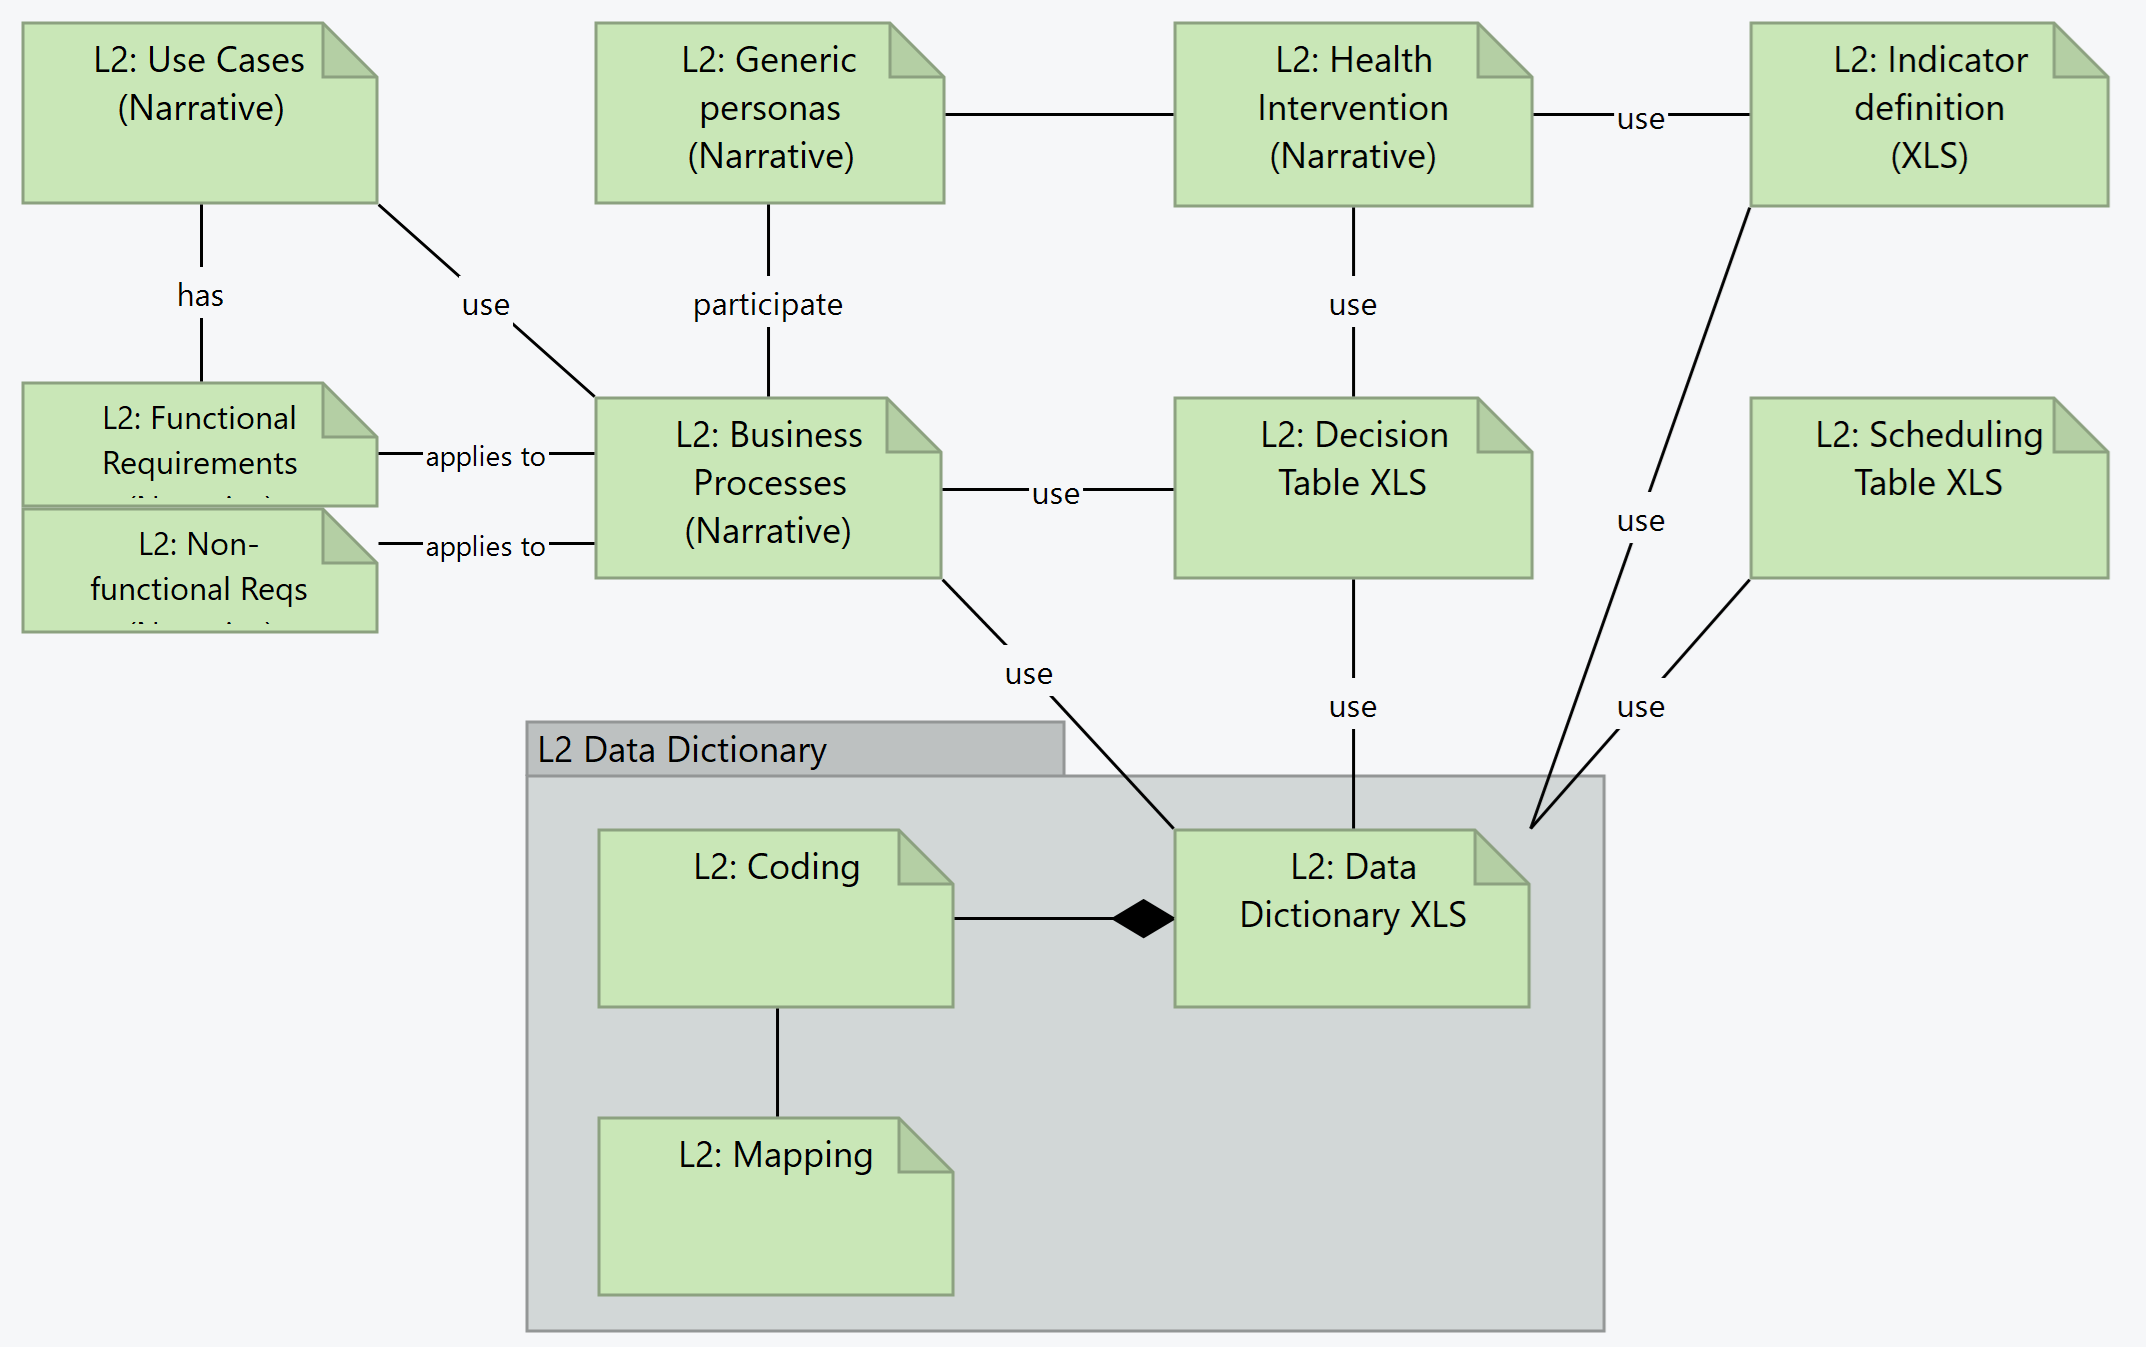
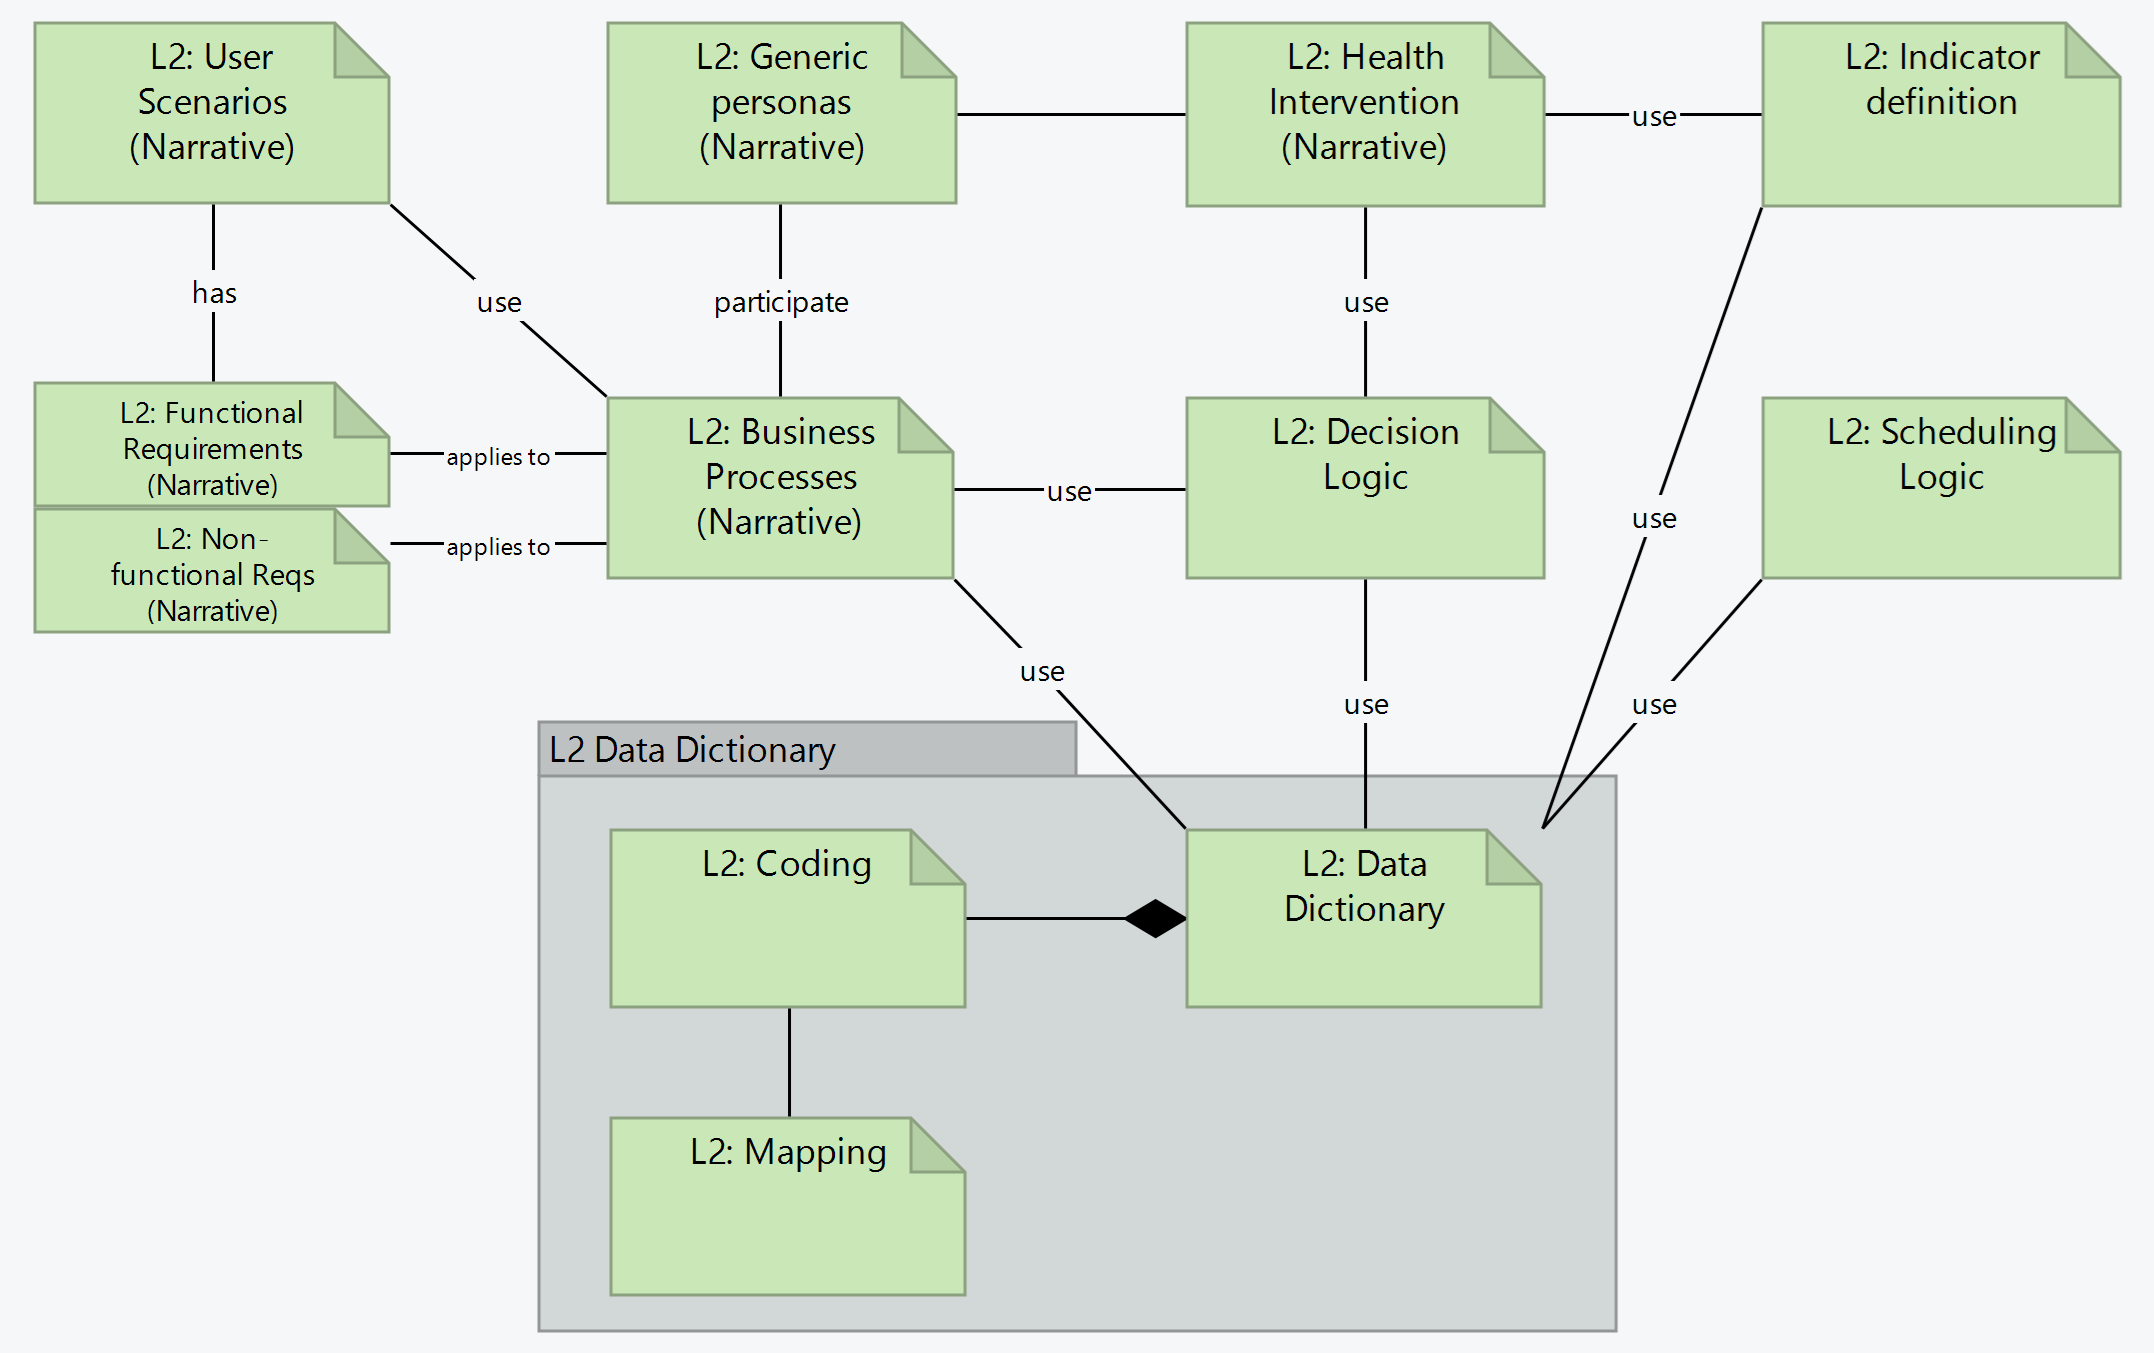
remove references to glossary, update diagram and archimate

diff --git a/input/pagecontent/l3_personas.md b/input/pagecontent/l3_personas.md
@@ -5,7 +5,7 @@ Each Persona is defined by the following data:
   {% include model_persona.svg %}
 </figure>
 
-The L3 author must ensure there is an ActorDefinition for each Persona mentioned in the L2. If the Persona doesn't exist in the Personas Glossary yet,
+The L3 author must ensure there is an ActorDefinition for each Persona mentioned in the L2. If the Persona doesn't exist in the common Personas list yet,
 this process can propose the creation of another different persona. This
 creation of a new persona is a provisional measure; there SHALL be a
 governance process for Personas. In that governance, there SHALL be a requirement that all personas in the final publication of a specification SHALL be approved.
@@ -13,8 +13,7 @@ governance process for Personas. In that governance, there SHALL be a requiremen
 ### **Inputs:** 
 
 * L2 Generic personas (Narrative)
-* Personas Glossary (in ValueSet SGPersonas)
-* Personas repository (in Common artifacts / central repository?)
+* Common Personas list (in Common artifacts / central repository?)
 
 ### **Outputs:**
 
@@ -57,7 +56,7 @@ Personas will be associated with actions(processes). The tracking of that associ
 ### **Criteria / Definition of Done**
 * All Personas SHALL use the SGPersona ActorDefinition profile
 * Each Persona source follow the guidelines for file content and names
-* All the personas SHOULD be from the Personas glossary; any exceptions will have to be resolved before final publication
+* All the personas SHOULD be registered in (or proposed to) the Personas list; any exceptions will have to be resolved before final publication
 
 
 ### **Change tracking**

diff --git a/input/pagecontent/l3_logicalmodels.md b/input/pagecontent/l3_logicalmodels.md
@@ -65,13 +65,13 @@ Logical model should conform to the [SGLogical](http://build.fhir.org/ig/WorldHe
 Creating the logical model from a DAK consists in creating the data structure, linking the elements to the common concept identifiers or, if that is not possible, to the internal unique concept identifiers (e.g. `DE1`, etc.). Additionally, assigning valuesets (creating them when needed), and capturing any constraints that are present in the L2.
 
 To start creating the logical model, an intake validation is useful, although it can be done simultaneously done with the editing of the logical model:
-1.  Verify that each data element needed exists in the common Glossary
+1.  Verify that each data element needed exists in the common definitions - 
     1.  If not, create and provisionally use a draft concept, and
-        request that concept to be added to the common glossary.
+        request that concept to be added to the common definitions.
     2.  If it exists but the existing definition is too strict, request
         a change and decide whether to provisionally use the concept,
         or provisionally create a new one and request it to be added
-        to the common glossary.
+        to the common definitions.
 2. The data labels should be unique within the same data model.
 
 For each line in the tab, there shall be one data element in the logical model (represented here by `differential.element[*]`):

diff --git a/input/pagecontent/gov_overview.md b/input/pagecontent/gov_overview.md
@@ -1,8 +1,8 @@
-SMART Guidelines artifacts are meant to be interoperable and shared. This means that they can be maintained and possibly reused and referenced across Guidelines.
+SMART Guidelines artifacts are meant to be interoperable and shared. This means that the artifacts can be maintained and possibly reused and referenced across Guidelines.
 
 The authoring process currently identifies some artifacts that are subject to "common" governance i.e. being maintained not within one single guideline, but as possibly reusable artifacts:
 
-* Glossary - Data Elements may be defined in a common base - for example "Patient given name" and "Pregnancy status" are definitions that should be common across SMART Guidelines
+* Concept definitions may be defined in a common base - for example "Patient given name" and "Pregnancy status" are definitions that should be common across SMART Guidelines
 * Business Processes, Personas - several of such artifacts can be used when building up an architecture from the modular components, aiming at reuse or consistency
 * ValueSets and CodeSystems - Terminology assets are inherently reusable across specifications.
 * CQL Common Libraries - code libraries can be maintained for reuse 

diff --git a/input/pagecontent/validating_ig.md b/input/pagecontent/validating_ig.md
@@ -3,7 +3,7 @@ Validating Smart Guidelines L3 is a responsibility of the author. This comprehen
 1. Ensure that the content of the L2 is correctly represented by L3 artifacts
 2. Verify that the rules for each created artifact are followed e.g. that there are no issues with the artifacts
 3. Confirm the functionality of L3 artifacts - for example that the StructureMaps extraction gives exactly the expected output, using reference tooling
-4. Address any other dependencies and governance issues e.g. updates to common glossary, etc.
+4. Address any other dependencies and governance issues e.g. updates to common definitions, etc.
 
 
 These are described below:

diff --git a/input/pagecontent/checklist.md b/input/pagecontent/checklist.md
@@ -59,7 +59,7 @@
     <tr>
       <td class='checklist-section'><a href="concepts.html">Business Requirements.Concepts</a></td>
       <td class='checklist-required'>Yes</td>
-      <td class='checklist-description'>A glossary of terms and key concepts introduced in the L2 or in the Implementation Guide</td>
+      <td class='checklist-description'>A list of terms and key concepts introduced in the L2 or in the Implementation Guide</td>
       <td class='checklist-artifacts'>concepts.xml</td>
       <td class='checklist-criteria'>A page for key concepts under business requirement exists</td>
     </tr>

diff --git a/input/pagecontent/l3_forms.md b/input/pagecontent/l3_forms.md
@@ -33,7 +33,7 @@ This extraction uses [structure maps](l3_structuremaps.html) and is represented 
 * Questionnaires
 * Example QuestionnaireResponses for testing
 
-* Questionnaires elements may link to the data elements in the Common glossary
+* Questionnaires elements may link to the data elements in the common definitions, when those common definitions exist
   * Note that this can conflict with the definition-based extraction described below
 
 ### **Activities:**
